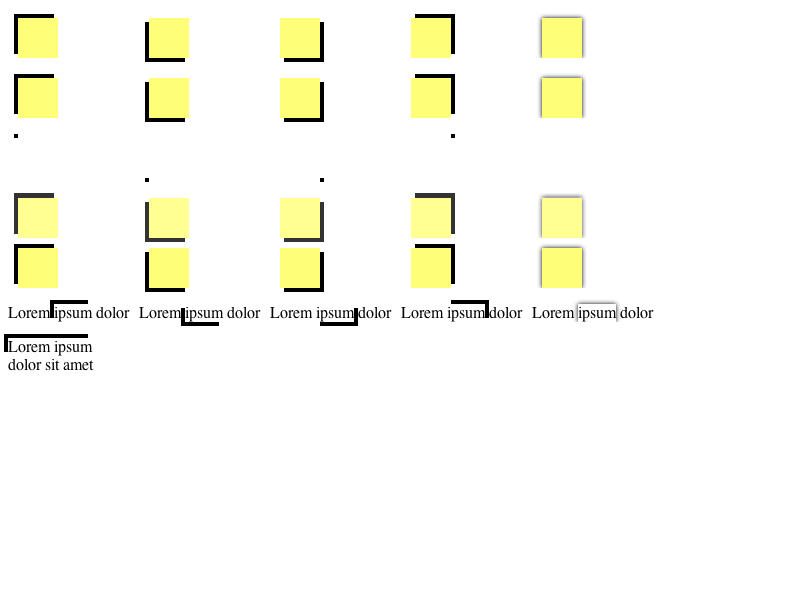
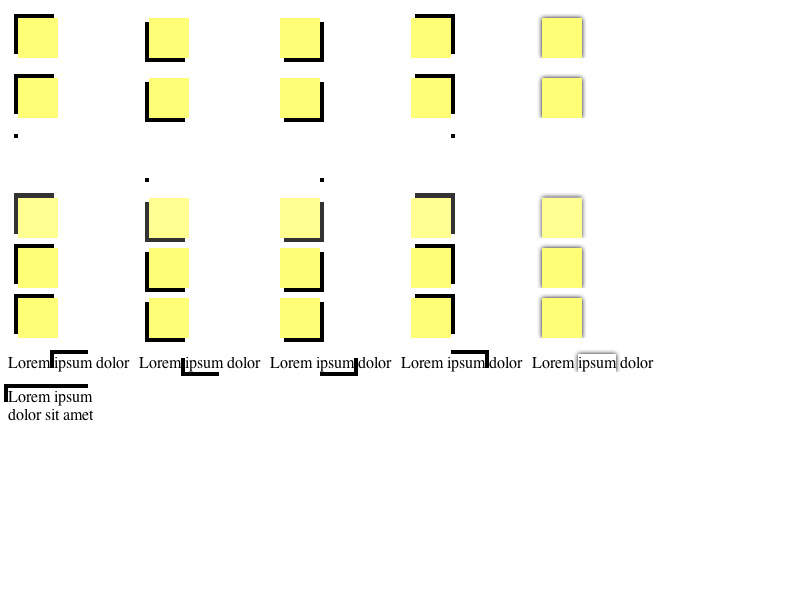
LayoutTests:
Reviewed by Hyatt.

        - updated tests for http://bugs.webkit.org/show_bug.cgi?id=13876
          Box-Shadow disappears if shadow doesn't fit in the window size

        * fast/repaint/box-shadow-h-expected.checksum:
        * fast/repaint/box-shadow-h-expected.png:
        * fast/repaint/box-shadow-h-expected.txt:
        * fast/repaint/box-shadow-h.html:
        * fast/repaint/box-shadow-v-expected.checksum:
        * fast/repaint/box-shadow-v-expected.png:
        * fast/repaint/box-shadow-v-expected.txt:
        * fast/repaint/box-shadow-v.html:

WebCore:

        Reviewed by Hyatt.

        - fix http://bugs.webkit.org/show_bug.cgi?id=13876
          Box-Shadow disappears if shadow doesn't fit in the window size

        Tests: fast/repaint/box-shadow-h.html
               fast/repaint/box-shadow-v.html

        * rendering/RenderTable.cpp:
        (WebCore::RenderTable::layout):

git-svn-id: https://svn.webkit.org/repository/webkit/trunk@21807 268f45cc-cd09-0410-ab3c-d52691b4dbfc

Changed region(s): [[0.0, 0.48, 0.8125, 0.72]]

diff --git a/LayoutTests/fast/repaint/box-shadow-h.html b/LayoutTests/fast/repaint/box-shadow-h.html
@@ -34,6 +34,8 @@
     
         <div class="square shadowTL" style="overflow: auto;"></div>
     
+        <table class="square shadowTL"></table>
+
         <p>
             Lorem <span class="shadowTL">ipsum</span> dolor
         </p>
@@ -59,6 +61,8 @@
     
         <div class="square shadowBL" style="overflow: auto;"></div>
     
+        <table class="square shadowBL"></table>
+
         <p>
             Lorem <span class="shadowBL">ipsum</span> dolor
         </p>
@@ -79,6 +83,8 @@
     
         <div class="square shadowBR" style="overflow: auto;"></div>
     
+        <table class="square shadowBR"></table>
+
         <p>
             Lorem <span class="shadowBR">ipsum</span> dolor
         </p>
@@ -99,6 +105,8 @@
     
         <div class="square shadowTR" style="overflow: auto;"></div>
     
+        <table class="square shadowTR"></table>
+
         <p>
             Lorem <span class="shadowTR">ipsum</span> dolor
         </p>
@@ -119,6 +127,8 @@
     
         <div class="square shadowB" style="overflow: auto;"></div>
     
+        <table class="square shadowB"></table>
+
         <p>
             Lorem <span class="shadowB">ipsum</span> dolor
         </p>

diff --git a/LayoutTests/fast/repaint/box-shadow-v.html b/LayoutTests/fast/repaint/box-shadow-v.html
@@ -32,6 +32,8 @@
     
         <div class="square shadowTL" style="overflow: auto;"></div>
     
+        <table class="square shadowTL"></table>
+
         <p>
             Lorem <span class="shadowTL">ipsum</span> dolor
         </p>
@@ -57,6 +59,8 @@
     
         <div class="square shadowBL" style="overflow: auto;"></div>
     
+        <table class="square shadowBL"></table>
+
         <p>
             Lorem <span class="shadowBL">ipsum</span> dolor
         </p>
@@ -77,6 +81,8 @@
     
         <div class="square shadowBR" style="overflow: auto;"></div>
     
+        <table class="square shadowBR"></table>
+
         <p>
             Lorem <span class="shadowBR">ipsum</span> dolor
         </p>
@@ -97,6 +103,8 @@
     
         <div class="square shadowTR" style="overflow: auto;"></div>
     
+        <table class="square shadowTR"></table>
+
         <p>
             Lorem <span class="shadowTR">ipsum</span> dolor
         </p>
@@ -117,6 +125,8 @@
     
         <div class="square shadowB" style="overflow: auto;"></div>
     
+        <table class="square shadowB"></table>
+
         <p>
             Lorem <span class="shadowB">ipsum</span> dolor
         </p>

diff --git a/WebCore/rendering/RenderTable.cpp b/WebCore/rendering/RenderTable.cpp
@@ -411,6 +411,15 @@ void RenderTable::layout()
     // FIXME: Only pass true if width or height changed.
     layoutPositionedObjects(true);
 
+    if (!hasOverflowClip()) {
+        if (ShadowData* boxShadow = style()->boxShadow()) {
+            m_overflowLeft = min(m_overflowLeft, boxShadow->x - boxShadow->blur);
+            m_overflowWidth = max(m_overflowWidth, m_width + boxShadow->x + boxShadow->blur);
+            m_overflowTop = min(m_overflowTop, boxShadow->y - boxShadow->blur);
+            m_overflowHeight = max(m_overflowHeight, m_height + boxShadow->y + boxShadow->blur);
+        }
+    }
+
     view()->popLayoutState();
 
     bool didFullRepaint = true;
